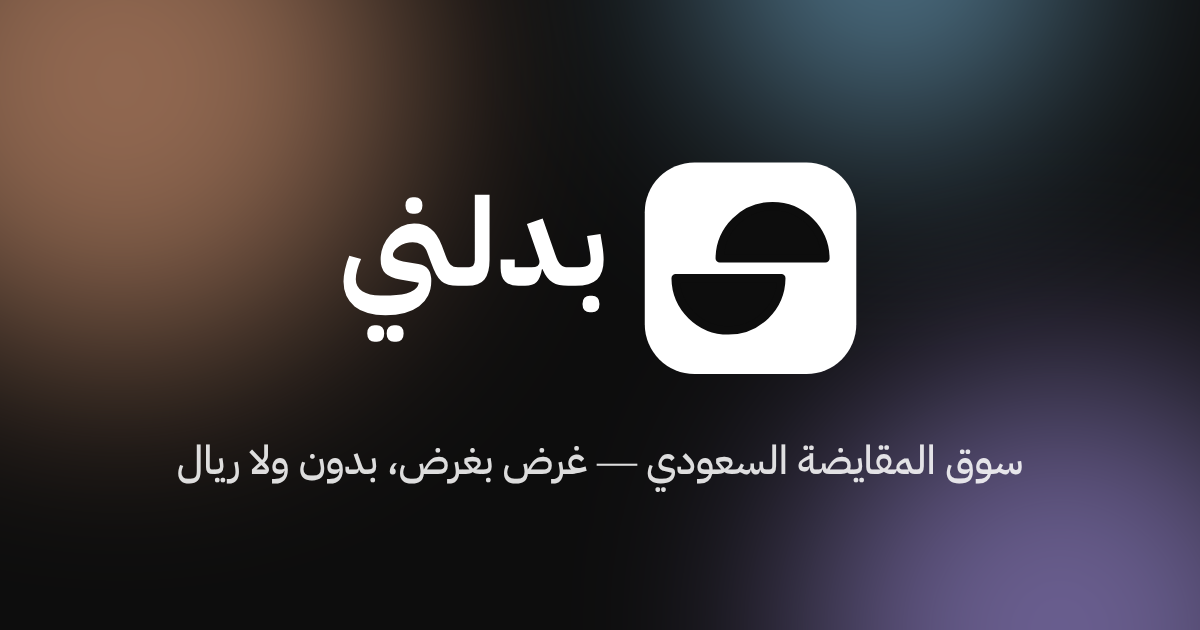
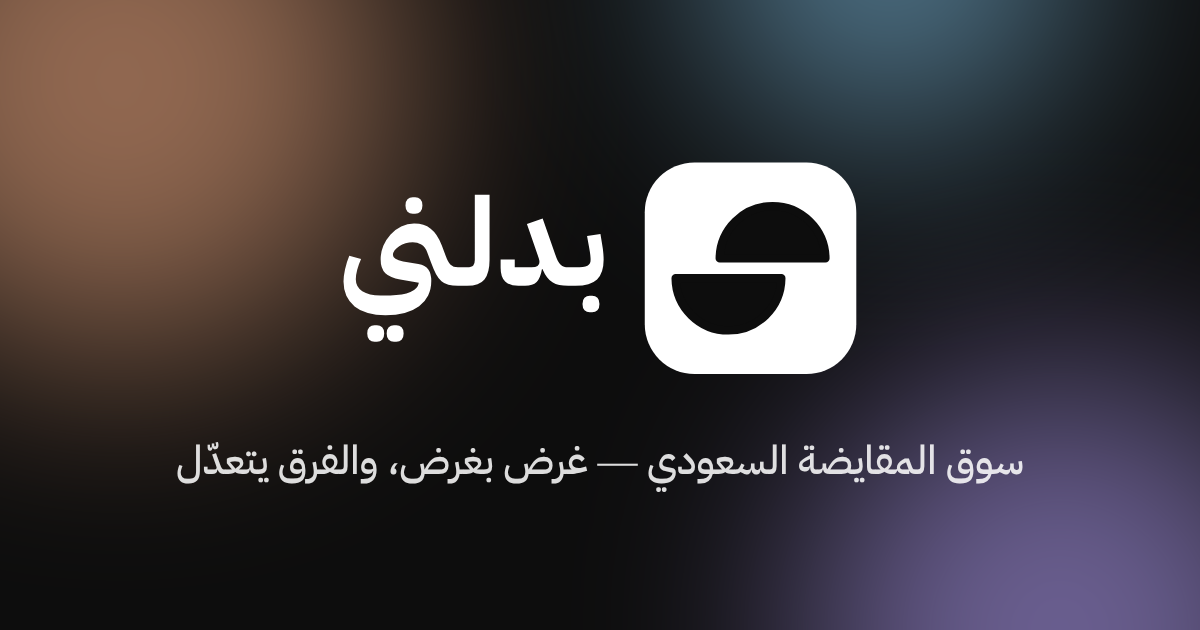
Let swap offers include a cash top-up
Offers now carry an exact estimated item value plus an optional cash
amount, and the fairness meter compares the listing's value with the
offer's total. Listings take an exact value instead of a range. The
schema adds est_value and cash columns (cash is fixed once sent), and
the no-money wording across the site is updated to match.

Claude-Session: https://claude.ai/code/session_013YWUAZ9289iGBG1twsmDmi

Changed region(s): [[0.1542, 0.6937, 0.4008, 0.7841], [0.5242, 0.7238, 0.8633, 0.754], [0.4317, 0.7238, 0.4933, 0.754]]

diff --git a/components/OfferModal.tsx b/components/OfferModal.tsx
@@ -4,7 +4,7 @@ import { useEffect, useState } from 'react';
 import { createPortal } from 'react-dom';
 import { motion } from 'framer-motion';
 import { ImagePlus, X } from 'lucide-react';
-import { CATEGORIES, CONDITIONS, VALUE_TIERS, type Listing } from '@/lib/data';
+import { CATEGORIES, CONDITIONS, formatSAR, listingValue, parseAmount, tierOf, type Listing } from '@/lib/data';
 import { fileToDataUrl, useStore } from '@/lib/store';
 import { FairnessMeter } from './Fairness';
 
@@ -13,7 +13,10 @@ export default function OfferModal({ listing, onClose }: { listing: Listing; onC
   const [title, setTitle] = useState('');
   const [category, setCategory] = useState(CATEGORIES[0].id);
   const [condition, setCondition] = useState(CONDITIONS[1]);
-  const [tier, setTier] = useState(listing.valueTier);
+  const [valueText, setValueText] = useState('');
+  const [cashText, setCashText] = useState('');
+  const value = parseAmount(valueText);
+  const cash = parseAmount(cashText);
   const [note, setNote] = useState('');
   const [name, setName] = useState(me.name);
   const [image, setImage] = useState<string>();
@@ -29,7 +32,7 @@ export default function OfferModal({ listing, onClose }: { listing: Listing; onC
     };
   }, [onClose]);
 
-  const valid = title.trim().length > 1 && name.trim().length > 1;
+  const valid = title.trim().length > 1 && name.trim().length > 1 && value > 0;
 
   const submit = async (e: React.FormEvent) => {
     e.preventDefault();
@@ -37,7 +40,7 @@ export default function OfferModal({ listing, onClose }: { listing: Listing; onC
     setBusy(true);
     try {
       if (name.trim() !== me.name) await setMe({ name: name.trim() });
-      await addOffer({ listingId: listing.id, fromName: name.trim(), itemTitle: title.trim(), itemCategory: category, itemCondition: condition, valueTier: tier, note: note.trim(), image });
+      await addOffer({ listingId: listing.id, fromName: name.trim(), itemTitle: title.trim(), itemCategory: category, itemCondition: condition, valueTier: tierOf(value), estValue: value, cash, note: note.trim(), image });
       toast('انرسل عرض البدل');
       onClose();
     } catch {
@@ -74,7 +77,7 @@ export default function OfferModal({ listing, onClose }: { listing: Listing; onC
             <div className="chips chips-wrap">
               {listings.map((l) => (
                 <button type="button" key={l.id} className={`chip chip-btn ${title === l.title ? 'is-solid' : ''}`}
-                  onClick={() => { setTitle(l.title); setCategory(l.category); setCondition(l.condition); setTier(l.valueTier); setImage(l.images[0]); }}>
+                  onClick={() => { setTitle(l.title); setCategory(l.category); setCondition(l.condition); setValueText(String(listingValue(l))); setImage(l.images[0]); }}>
                   {l.title}
                 </button>
               ))}
@@ -102,13 +105,25 @@ export default function OfferModal({ listing, onClose }: { listing: Listing; onC
           </label>
         </div>
 
-        <label className="field">
-          <span className="label">القيمة التقريبية لغرضك (ريال)</span>
-          <select className="select" value={tier} onChange={(e) => setTier(Number(e.target.value))}>
-            {VALUE_TIERS.map((v, i) => <option key={v} value={i}>{v}</option>)}
-          </select>
-        </label>
-        <FairnessMeter a={listing.valueTier} b={tier} />
+        <div className="row">
+          <label className="field">
+            <span className="label">قيمة غرضك التقريبية (ريال)</span>
+            <input className="input" dir="ltr" inputMode="numeric" value={valueText} onChange={(e) => setValueText(e.target.value)} placeholder="مثال: 1800" required />
+          </label>
+          <label className="field">
+            <span className="label">تزيد مبلغ فوقه؟ (اختياري)</span>
+            <input className="input" dir="ltr" inputMode="numeric" value={cashText} onChange={(e) => setCashText(e.target.value)} placeholder="0" />
+          </label>
+        </div>
+        {value > 0 && (
+          <>
+            <p className="offer-total">
+              قيمة عرضك: <strong>{formatSAR(value + cash)}</strong>
+              {cash > 0 && <span> (غرض {formatSAR(value)} + مبلغ {formatSAR(cash)})</span>}
+            </p>
+            <FairnessMeter a={listingValue(listing)} b={value + cash} />
+          </>
+        )}
 
         <label className="field">
           <span className="label">رسالة لصاحب العرض (اختياري)</span>

diff --git a/app/page.tsx b/app/page.tsx
@@ -12,7 +12,7 @@ import { useStore } from '@/lib/store';
 const HEADLINE = ['بدّل', 'اللي', 'عندك', 'باللي', 'تبيه.'];
 
 const MANIFESTO =
-  'في كل بيت أغراض قيمتها محفوظة وفايدتها واقفة. بدلني يحرّكها: غرضك يروح للي يحتاجه، وحاجتك تجيك من اللي ما عاد يحتاجها. بدون بيع، بدون شراء، بدون ولا ريال.';
+  'في كل بيت أغراض قيمتها محفوظة وفايدتها واقفة. بدلني يحرّكها: غرضك يروح للي يحتاجه، وحاجتك تجيك من اللي ما عاد يحتاجها. غرض بغرض، ولو اختلفت القيمة يكمّلها مبلغ بسيط.';
 
 function Word({ children, progress, range }: { children: string; progress: MotionValue<number>; range: [number, number] }) {
   const opacity = useTransform(progress, range, [0.12, 1]);
@@ -71,14 +71,14 @@ function Bento() {
     <section className="section container">
       <Reveal>
         <span className="eyebrow">ليش بدلني</span>
-        <h2 className="h2">سوق كامل<br />ما يبي فلوسك.</h2>
+        <h2 className="h2">سوق أساسه البدل،<br />مو البيع.</h2>
       </Reveal>
       <div className="bento">
         <Reveal className="tile tile-dark tile-wide">
           <Wallet size={26} strokeWidth={1.5} />
-          <div className="tile-big"><Counter to={0} /> <small>ريال</small></div>
-          <h3>بدون مال نهائياً</h3>
-          <p>لا أسعار، لا عمولة، لا رسوم. القيمة هنا في الغرض نفسه.</p>
+          <div className="tile-big"><Counter to={0} /> <small>ريال عمولة</small></div>
+          <h3>غرض بغرض — والفرق يتعدّل</h3>
+          <p>القيمة في الغرض نفسه. ولو غرضك أقل قيمة، زد عليه مبلغ وكمّل البدلة.</p>
           <div className="tile-glow" />
         </Reveal>
         <Reveal className="tile" delay={0.08}>
@@ -89,7 +89,7 @@ function Bento() {
             </motion.div>
           </div>
           <h3>ميزان البدل</h3>
-          <p>يوضّح تقارب قيمة الغرضين عشان البدلة تكون عادلة للطرفين.</p>
+          <p>يحسب قيمة الغرض والمبلغ المضاف ويوضّح لك إذا البدلة عادلة للطرفين.</p>
         </Reveal>
         <Reveal className="tile tile-tagged" delay={0.14}>
           <Sparkles size={26} strokeWidth={1.5} />
@@ -104,7 +104,7 @@ function Bento() {
         <Reveal className="tile" delay={0.08}>
           <ShieldCheck size={26} strokeWidth={1.5} />
           <h3>بدل بأمان</h3>
-          <p>ما فيه تحويلات ولا دفع مقدّم. تقابلوا، افحصوا، وبدّلوا يد بيد.</p>
+          <p>تقابلوا في مكان عام، افحصوا الغرض، وسلّموا يد بيد. لا تحوّل مبلغ قبل ما تستلم.</p>
         </Reveal>
         <Reveal className="tile tile-wide tile-cities" delay={0.14}>
           <h3>من تبوك إلى جازان</h3>
@@ -148,7 +148,7 @@ export default function Home() {
               ))}
             </h1>
             <motion.p className="lead" initial={{ opacity: 0, y: 16 }} animate={{ opacity: 1, y: 0 }} transition={{ duration: 0.7, ease: EASE, delay: 0.65 }}>
-              اعرض غرضك، استقبل عروض البدل، واتفقوا. غرض بغرض وخدمة بخدمة — بدون ولا ريال.
+              اعرض غرضك، استقبل عروض البدل، واتفقوا. غرض بغرض وخدمة بخدمة — ولو فيه فرق بالقيمة يتعدّل بمبلغ.
             </motion.p>
             <motion.div className="hero-cta" initial={{ opacity: 0, y: 16 }} animate={{ opacity: 1, y: 0 }} transition={{ duration: 0.7, ease: EASE, delay: 0.8 }}>
               <Link href="/new" className="btn btn-primary btn-lg">اعرض غرضك <ArrowLeft size={18} /></Link>

diff --git a/app/new/page.tsx b/app/new/page.tsx
@@ -5,7 +5,7 @@ import { useEffect, useState } from 'react';
 import { AnimatePresence, motion } from 'framer-motion';
 import { ArrowLeft, ArrowRight, Check, ImagePlus, Plus, X } from 'lucide-react';
 import { CategoryIcon, EASE } from '@/components/ui';
-import { CATEGORIES, CITIES, CONDITIONS, VALUE_TIERS, type Listing } from '@/lib/data';
+import { CATEGORIES, CITIES, CONDITIONS, parseAmount, tierOf, type Listing } from '@/lib/data';
 import { fileToDataUrl, useStore } from '@/lib/store';
 
 const STEP_TITLES = ['وش عندك؟', 'عطنا التفاصيل', 'وش تبي بداله؟'];
@@ -23,7 +23,8 @@ export default function NewListing() {
   const [images, setImages] = useState<string[]>([]);
   const [condition, setCondition] = useState(CONDITIONS[1]);
   const [city, setCity] = useState(me.city || CITIES[0]);
-  const [tier, setTier] = useState(1);
+  const [valueText, setValueText] = useState('');
+  const value = parseAmount(valueText);
   const [description, setDescription] = useState('');
   const [wants, setWants] = useState<string[]>([]);
   const [want, setWant] = useState('');
@@ -33,7 +34,7 @@ export default function NewListing() {
 
   const ok = [
     title.trim().length > 2 && !!category,
-    true,
+    value > 0,
     (wants.length > 0 || open) && name.trim().length > 1,
   ][step];
 
@@ -55,7 +56,7 @@ export default function NewListing() {
       await setMe({ name: name.trim(), city, whatsapp: whatsapp.trim() });
       const l = await addListing({
       title: title.trim(), category, condition, city, description: description.trim(), wants, openToOffers: open,
-      valueTier: tier, images, ownerName: name.trim(), whatsapp: whatsapp.trim() || undefined,
+      valueTier: tierOf(value), estValue: value, images, ownerName: name.trim(), whatsapp: whatsapp.trim() || undefined,
     });
       setDone(l);
       toast('انتشر عرضك');
@@ -177,10 +178,10 @@ export default function NewListing() {
                 </label>
                 <label className="field">
                   <span className="label">القيمة التقريبية (ريال)</span>
-                  <select className="select" value={tier} onChange={(e) => setTier(Number(e.target.value))}>{VALUE_TIERS.map((v, i) => <option key={v} value={i}>{v}</option>)}</select>
+                  <input className="input" dir="ltr" inputMode="numeric" value={valueText} onChange={(e) => setValueText(e.target.value)} placeholder="مثال: 2500" />
                 </label>
               </div>
-              <p className="hint">القيمة ما تنعرض كسعر — نستخدمها بس في «ميزان البدل» عشان تكون العروض عادلة.</p>
+              <p className="hint">قيمة تقريبية تكفي — تظهر في صفحة العرض ويستخدمها «ميزان البدل» عشان توصلك عروض عادلة.</p>
               <label className="field">
                 <span className="label">الوصف</span>
                 <textarea className="input" rows={5} value={description} onChange={(e) => setDescription(e.target.value)} placeholder="الحالة، مدة الاستخدام، الملحقات…" maxLength={500} />

diff --git a/lib/data.ts b/lib/data.ts
@@ -41,6 +41,8 @@ export type Listing = {
   wants: string[];
   openToOffers: boolean;
   valueTier: number;
+  /** القيمة التقريبية بالريال (العروض القديمة فيها الشريحة فقط) */
+  estValue?: number;
   images: string[];
   ownerId: string;
   ownerName: string;
@@ -60,6 +62,10 @@ export type Offer = {
   itemCategory: string;
   itemCondition: string;
   valueTier: number;
+  /** قيمة الغرض المعروض بالريال */
+  estValue?: number;
+  /** مبلغ نقدي يضيفه صاحب العرض فوق غرضه */
+  cash?: number;
   note: string;
   image?: string;
   status: 'pending' | 'accepted' | 'rejected';
@@ -126,9 +132,33 @@ export function timeAgo(ts: number) {
   return d === 1 ? 'أمس' : `قبل ${d} يوم`;
 }
 
-export function fairness(a: number, b: number) {
-  const d = Math.abs(a - b);
-  if (d === 0) return { label: 'قيمة متقاربة', level: 2 };
-  if (d === 1) return { label: 'فرق بسيط', level: 1 };
+const TIER_MID = [250, 1000, 3000, 10000, 20000];
+const TIER_MAX = [500, 1500, 5000, 15000];
+
+/** الشريحة المقابلة لقيمة بالريال */
+export const tierOf = (value: number) => {
+  const i = TIER_MAX.findIndex((max) => value < max);
+  return i === -1 ? 4 : i;
+};
+
+export const listingValue = (l: Pick<Listing, 'estValue' | 'valueTier'>) => l.estValue ?? TIER_MID[l.valueTier] ?? TIER_MID[1];
+
+/** قيمة عرض البدل كاملة = قيمة الغرض + المبلغ المضاف */
+export const offerValue = (o: Pick<Offer, 'estValue' | 'valueTier' | 'cash'>) =>
+  (o.estValue ?? TIER_MID[o.valueTier] ?? TIER_MID[1]) + (o.cash ?? 0);
+
+export const formatSAR = (n: number) => `${Math.round(n).toLocaleString('en-US')} ريال`;
+
+/** يقرأ رقم من حقل نصي — يقبل الأرقام العربية والفواصل */
+export function parseAmount(text: string) {
+  const digits = text.replace(/[٠-٩]/g, (d) => String('٠١٢٣٤٥٦٧٨٩'.indexOf(d))).replace(/[^\d]/g, '');
+  return digits ? Math.min(Number(digits), 10_000_000) : 0;
+}
+
+/** يقارن قيمة الغرض المعروض (target) بقيمة عرض البدل (offered) */
+export function fairness(target: number, offered: number) {
+  const r = target > 0 ? offered / target : 1;
+  if (r >= 0.75 && r <= 1.34) return { label: 'قيمة متقاربة', level: 2 };
+  if (r >= 0.5 && r <= 2) return { label: 'فرق بسيط', level: 1 };
   return { label: 'فرق كبير بالقيمة', level: 0 };
 }

diff --git a/lib/cloud.tsx b/lib/cloud.tsx
@@ -18,12 +18,12 @@ const blankMe: Me = { id: '', name: '', city: 'الرياض', whatsapp: '' };
 
 const toListing = (r: any): Listing => ({
   id: r.id, title: r.title, category: r.category, condition: r.condition, city: r.city, description: r.description ?? '',
-  wants: r.wants ?? [], openToOffers: r.open_to_offers, valueTier: r.value_tier, images: r.images ?? [],
+  wants: r.wants ?? [], openToOffers: r.open_to_offers, valueTier: r.value_tier, estValue: r.est_value ?? undefined, images: r.images ?? [],
   ownerId: r.owner_id, ownerName: r.owner?.name ?? 'مستخدم', createdAt: +new Date(r.created_at), offersCount: r.offers_count ?? 0,
 });
 const toOffer = (r: any): Offer => ({
   id: r.id, listingId: r.listing_id, fromId: r.from_id, fromName: r.sender?.name ?? 'مستخدم', itemTitle: r.item_title,
-  itemCategory: r.item_category, itemCondition: r.item_condition, valueTier: r.value_tier, note: r.note ?? '',
+  itemCategory: r.item_category, itemCondition: r.item_condition, valueTier: r.value_tier, estValue: r.est_value ?? undefined, cash: r.cash ?? 0, note: r.note ?? '',
   image: r.image ?? undefined, status: r.status, createdAt: +new Date(r.created_at),
 });
 
@@ -159,7 +159,7 @@ export function CloudProvider({ children }: { children: React.ReactNode }) {
         .from('listings')
         .insert({
           owner_id, title: l.title, category: l.category, condition: l.condition, city: l.city, description: l.description,
-          wants: l.wants, open_to_offers: l.openToOffers, value_tier: l.valueTier, images,
+          wants: l.wants, open_to_offers: l.openToOffers, value_tier: l.valueTier, est_value: l.estValue ?? null, images,
         })
         .select(LISTING_COLS)
         .single();
@@ -183,7 +183,7 @@ export function CloudProvider({ children }: { children: React.ReactNode }) {
         .from('offers')
         .insert({
           listing_id: o.listingId, from_id, item_title: o.itemTitle, item_category: o.itemCategory,
-          item_condition: o.itemCondition, value_tier: o.valueTier, note: o.note, image,
+          item_condition: o.itemCondition, value_tier: o.valueTier, est_value: o.estValue ?? null, cash: o.cash ?? 0, note: o.note, image,
         })
         .select(OFFER_COLS)
         .single();

diff --git a/lib/local.tsx b/lib/local.tsx
@@ -1,7 +1,7 @@
 'use client';
 
 import { useCallback, useEffect, useMemo, useState } from 'react';
-import { SEED, type Listing, type Offer } from './data';
+import { SEED, listingValue, tierOf, type Listing, type Offer } from './data';
 import { StoreCtx, useToasts, type Ctx, type Me } from './ctx';
 
 /** الوضع التجريبي: كل شي ينحفظ في متصفح الزائر، مع عروض نموذجية وردود محاكاة */
@@ -9,6 +9,13 @@ type State = { me: Me; listings: Listing[]; offers: Offer[]; favs: string[] };
 
 const KEY = 'badal:v1';
 const uid = () => Math.random().toString(36).slice(2, 10);
+/** العرض التجريبي الثاني غرض أقل قيمة مع مبلغ يعدّل الفرق */
+function demoValue(listing: Listing, i: number) {
+  const target = listingValue(listing);
+  const round = (n: number) => Math.max(50, Math.round(n / 50) * 50);
+  const estValue = round(i ? target * 0.7 : target * 1.05);
+  return { estValue, valueTier: tierOf(estValue), cash: i ? round(target * 0.25) : 0 };
+}
 const empty: State = { me: { id: '', name: '', city: 'الرياض', whatsapp: '' }, listings: [], offers: [], favs: [] };
 
 export function LocalProvider({ children }: { children: React.ReactNode }) {
@@ -53,7 +60,7 @@ export function LocalProvider({ children }: { children: React.ReactNode }) {
               ? {
                   ...s,
                   offers: [
-                    { ...d, id: `o${uid()}`, listingId: listing.id, fromId: `demo-${i}`, valueTier: Math.max(0, Math.min(4, listing.valueTier + (i ? -1 : 0))), status: 'pending', createdAt: Date.now(), demo: true },
+                    { ...d, id: `o${uid()}`, listingId: listing.id, fromId: `demo-${i}`, ...demoValue(listing, i), status: 'pending', createdAt: Date.now(), demo: true },
                     ...s.offers,
                   ],
                 }

diff --git a/app/listing/[id]/page.tsx b/app/listing/[id]/page.tsx
@@ -8,7 +8,7 @@ import { ArrowRight, Clock, Heart, MapPin, Repeat2, ShieldCheck, Trash2 } from '
 import OfferModal from '@/components/OfferModal';
 import OfferRow from '@/components/OfferRow';
 import { CategoryIcon, EASE, ListingArt, ListingCard } from '@/components/ui';
-import { VALUE_TIERS, catById, timeAgo } from '@/lib/data';
+import { catById, formatSAR, listingValue, timeAgo } from '@/lib/data';
 import { useStore } from '@/lib/store';
 
 export default function ListingPage({ params }: { params: { id: string } }) {
@@ -73,7 +73,7 @@ export default function ListingPage({ params }: { params: { id: string } }) {
               {listing.wants.map((w) => <span key={w} className="chip chip-solid">{w}</span>)}
               {listing.openToOffers && <span className="chip chip-dashed">+ يستقبل عروض ثانية</span>}
             </div>
-            <small>القيمة التقريبية: {VALUE_TIERS[listing.valueTier]} ريال — للمقارنة فقط، البدل بدون فلوس.</small>
+            <small>القيمة التقريبية: {formatSAR(listingValue(listing))} — تقدر تعرض غرض بقيمة قريبة، أو غرض وتزيد عليه مبلغ.</small>
           </div>
 
           <div className="detail-actions">

diff --git a/components/Fairness.tsx b/components/Fairness.tsx
@@ -7,7 +7,7 @@ import { fairness } from '@/lib/data';
 /** ميزان البدل: يقارن شريحتي القيمة ويميل ناحية الأثقل */
 export function FairnessMeter({ a, b }: { a: number; b: number }) {
   const f = fairness(a, b);
-  const tilt = Math.max(-2, Math.min(2, b - a)) * 7;
+  const tilt = a > 0 && b > 0 ? Math.max(-1.4, Math.min(1.4, Math.log2(b / a))) * 10 : 0;
   return (
     <div className={`fair fair-${f.level}`}>
       <div className="fair-scale" aria-hidden>
@@ -17,7 +17,7 @@ export function FairnessMeter({ a, b }: { a: number; b: number }) {
       </div>
       <div>
         <strong><Scale size={14} /> ميزان البدل: {f.label}</strong>
-        <small>مقارنة تقريبية بين قيمة الغرضين — القرار لكم.</small>
+        <small>مقارنة تقريبية بين قيمة غرضه وقيمة عرضك (الغرض + المبلغ) — القرار لكم.</small>
       </div>
     </div>
   );

diff --git a/components/Chrome.tsx b/components/Chrome.tsx
@@ -120,7 +120,7 @@ function Footer() {
       <div className="container footer-grid">
         <div>
           <Logo size={32} />
-          <p className="footer-tag">سوق المقايضة السعودي.<br />غرض بغرض — بدون ولا ريال.</p>
+          <p className="footer-tag">سوق المقايضة السعودي.<br />غرض بغرض — والفرق يتعدّل.</p>
         </div>
         <div className="footer-col">
           <h4>المنصة</h4>
@@ -132,7 +132,7 @@ function Footer() {
           <h4>بدل بأمان</h4>
           <span>قابِل في مكان عام</span>
           <span>افحص الغرض قبل البدل</span>
-          <span>لا تحوّل فلوس لأحد</span>
+          <span>لا تحوّل مبلغ قبل الاستلام</span>
         </div>
       </div>
       <div className="container footer-bottom">

diff --git a/app/layout.tsx b/app/layout.tsx
@@ -10,7 +10,7 @@ import Chrome from '@/components/Chrome';
 export const metadata: Metadata = {
   title: { default: 'بدلني — سوق المقايضة السعودي', template: '%s — بدلني' },
   applicationName: 'بدلني',
-  description: 'اعرض غرضك، استقبل عروض البدل، وبدّل اللي عندك باللي تبيه. مقايضة غرض بغرض في كل مدن السعودية — بدون ولا ريال.',
+  description: 'اعرض غرضك، استقبل عروض البدل، وبدّل اللي عندك باللي تبيه. مقايضة غرض بغرض في كل مدن السعودية — والفرق يتعدّل بمبلغ.',
 };
 
 export const viewport: Viewport = {

diff --git a/app/globals.css b/app/globals.css
@@ -458,3 +458,6 @@ textarea.input { resize: vertical; line-height: 1.7; }
 .link-btn { display: block; margin: 16px auto 0; color: var(--muted); font-size: 15px; text-decoration: underline; text-underline-offset: 4px; transition: color 0.2s; }
 .link-btn:hover { color: var(--ink); }
 .forgot-lead { margin-bottom: 22px; font-size: 17px; }
+.cash-chip { font-size: 13px; font-weight: 600; padding: 2px 10px; border-radius: 999px; background: color-mix(in srgb, var(--ok) 14%, transparent); color: var(--ok); white-space: nowrap; }
+.offer-total { font-size: 15px; margin-bottom: 12px; }
+.offer-total span { color: var(--muted); font-size: 13.5px; }
